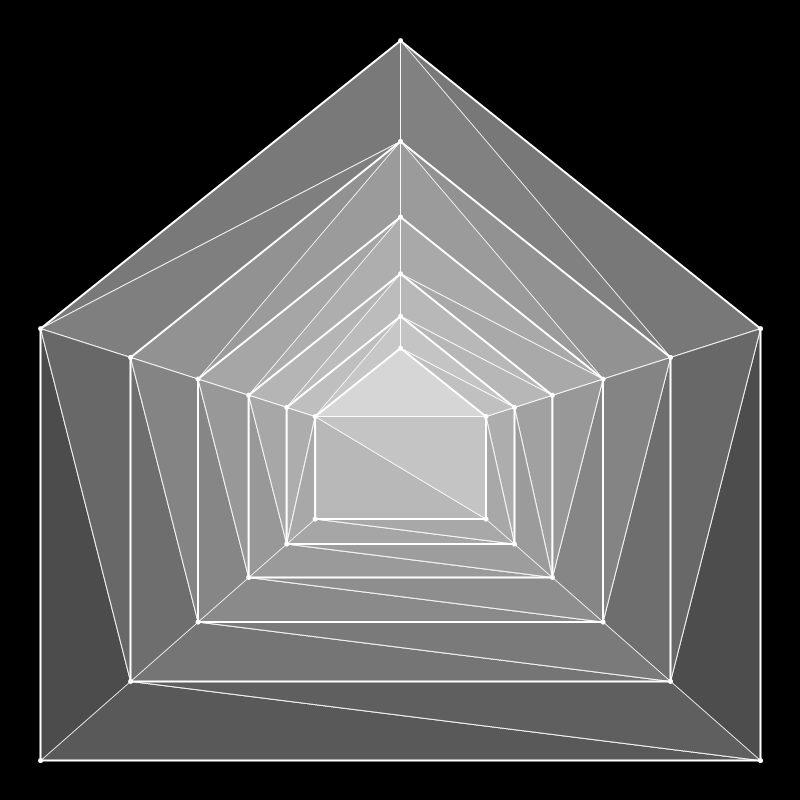
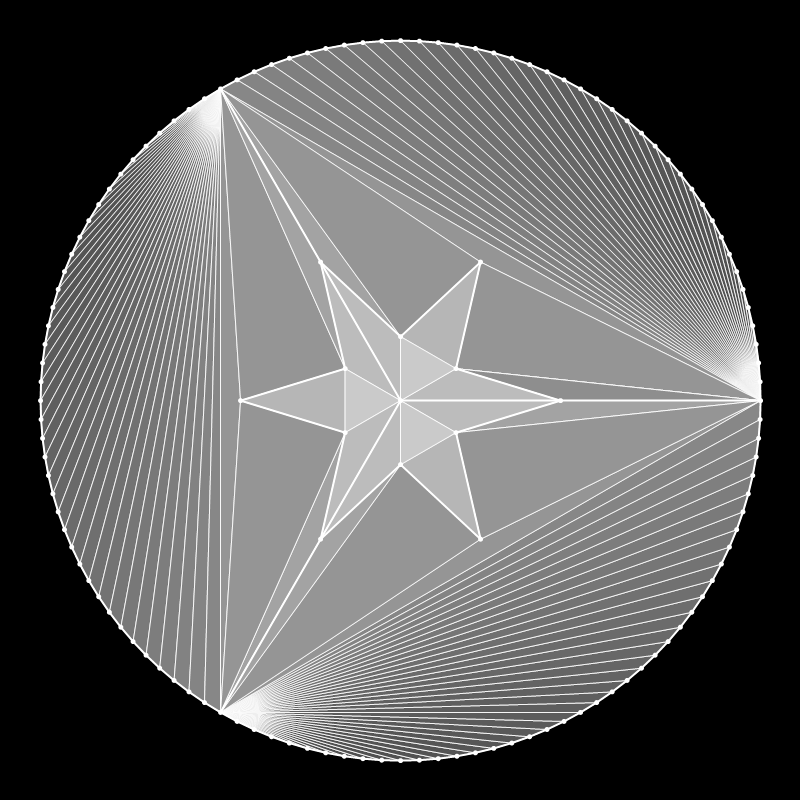
Add star hub TriangleGarden demo render and README note

diff --git a/TriangleGarden.Demo/Program.cs b/TriangleGarden.Demo/Program.cs
@@ -28,67 +28,148 @@ namespace TriangleGarden.Demo
             Console.WriteLine($"Vertices:  {result.Points.Count}");
             Console.WriteLine($"Triangles: {result.Triangles.Count}");
             Console.WriteLine($"Image written to: {imagePath}");
+
+            // Second demo: star ring + center hub
+            var starPoints   = BuildPointsStar();
+            var starSegments = BuildSegmentsStar(starPoints.Count);
+            var starInput    = new TriangleGardenInput(starPoints, starSegments);
+            var starResult   = TriangleGardenTriangulator.Run(in starInput);
+
+            var starImagePath = Path.GetFullPath("triangle_garden_star.png");
+            Render(starResult.Points, starResult.Triangles, starSegments, starImagePath);
+
+            Console.WriteLine($"[Star] Vertices:  {starResult.Points.Count}");
+            Console.WriteLine($"[Star] Triangles: {starResult.Triangles.Count}");
+            Console.WriteLine($"[Star] Image written to: {starImagePath}");
         }
 
         private static List<RealPoint2D> BuildPoints()
         {
-            // Base "house" shape in local coordinates, roughly [0,100] box.
-            // Simple, non-self-intersecting polygon.
-            var basePoly = new List<RealPoint2D>
+            var pts = new List<RealPoint2D>();
+            const double cx = 50.0;
+            const double cy = 50.0;
+
+            // OUTER RING (120-gon)
+            const int outerN = 120;
+            const double outerR = 45.0;
+
+            for (int i = 0; i < outerN; i++)
             {
-                new RealPoint2D(0, 0),    // bottom left
-                new RealPoint2D(100, 0),  // bottom right
-                new RealPoint2D(100, 60), // right wall top
-                new RealPoint2D(50, 100), // roof peak
-                new RealPoint2D(0, 60)    // left wall top
-            };
-
-            double cx = 0, cy = 0;
-            foreach (var p in basePoly)
-            {
-                cx += p.X;
-                cy += p.Y;
-            }
-            cx /= basePoly.Count;
-            cy /= basePoly.Count;
-
-            var points = new List<RealPoint2D>();
-
-            const int    levels     = 6;
-            const double scaleStep  = 0.75;
-
-            for (int level = 0; level < levels; level++)
-            {
-                double s = Math.Pow(scaleStep, level);
-
-                foreach (var p in basePoly)
-                {
-                    double x = cx + (p.X - cx) * s;
-                    double y = cy + (p.Y - cy) * s;
-                    points.Add(new RealPoint2D(x, y));
-                }
+                double ang = 2 * Math.PI * i / outerN;
+                pts.Add(new RealPoint2D(cx + outerR * Math.Cos(ang),
+                                        cy + outerR * Math.Sin(ang)));
             }
 
-            return points;
+            // INNER STAR (12-pt)
+            const int starN = 12;
+            const double r1 = 20.0;
+            const double r2 = 8.0;
+
+            for (int i = 0; i < starN; i++)
+            {
+                double ang = 2 * Math.PI * i / starN;
+                double r = (i % 2 == 0) ? r1 : r2;
+                pts.Add(new RealPoint2D(cx + r * Math.Cos(ang),
+                                        cy + r * Math.Sin(ang)));
+            }
+
+            // CENTER
+            pts.Add(new RealPoint2D(cx, cy));
+
+            return pts;
         }
 
         private static List<(int A, int B)> BuildSegments(int pointCount)
         {
+            var seg = new List<(int, int)>();
+
+            const int outerN = 120;
+            const int starN = 12;
+
+            // Outer ring
+            for (int i = 0; i < outerN; i++)
+                seg.Add((i, (i + 1) % outerN));
+
+            // Star cycle
+            int starStart = outerN;
+            for (int i = 0; i < starN; i++)
+                seg.Add((starStart + i,
+                         starStart + ((i + 1) % starN)));
+
+            // Center connections (no cycle — just rays)
+            int center = outerN + starN;
+
+            seg.Add((center, 0));
+            seg.Add((center, outerN / 3));
+            seg.Add((center, (2 * outerN) / 3));
+
+            return seg;
+        }
+
+        private static List<RealPoint2D> BuildPointsStar()
+        {
+            var points = new List<RealPoint2D>();
+
+            const double cx = 50.0;
+            const double cy = 50.0;
+
+            const int    outerCount = 40;
+            const double outerR     = 47.0;
+
+            for (int i = 0; i < outerCount; i++)
+            {
+                double angle = 2.0 * Math.PI * i / outerCount;
+                double x = cx + outerR * Math.Cos(angle);
+                double y = cy + outerR * Math.Sin(angle);
+                points.Add(new RealPoint2D(x, y));
+            }
+
+            const int    starCount   = 20;
+            const double starROuter  = 25.0;
+            const double starRInner  = 18.0;
+
+            for (int i = 0; i < starCount; i++)
+            {
+                double baseAngle = 2.0 * Math.PI * i / starCount;
+                double r = (i % 2 == 0) ? starROuter : starRInner;
+
+                double x = cx + r * Math.Cos(baseAngle);
+                double y = cy + r * Math.Sin(baseAngle);
+                points.Add(new RealPoint2D(x, y));
+            }
+
+            points.Add(new RealPoint2D(cx, cy));
+
+            return points;
+        }
+
+        private static List<(int A, int B)> BuildSegmentsStar(int pointCount)
+        {
             var segments = new List<(int A, int B)>();
 
-            const int baseVertexCount = 5;  // house polygon vertices
-            int levels = pointCount / baseVertexCount;
+            const int outerCount = 40;
+            const int starCount  = 20;
 
-            for (int level = 0; level < levels; level++)
+            int expectedPoints = outerCount + starCount + 1;
+            if (pointCount != expectedPoints)
             {
-                int first = level * baseVertexCount;
-                int last  = first + baseVertexCount - 1;
+                throw new InvalidOperationException($"Point count mismatch: expected {expectedPoints}, got {pointCount}");
+            }
 
-                for (int i = first; i <= last; i++)
-                {
-                    int j = (i == last) ? first : i + 1;
-                    segments.Add((i, j));
-                }
+            int firstOuter = 0;
+            int lastOuter  = outerCount - 1;
+            for (int i = firstOuter; i <= lastOuter; i++)
+            {
+                int j = (i == lastOuter) ? firstOuter : i + 1;
+                segments.Add((i, j));
+            }
+
+            int starFirst = outerCount;
+            int starLast  = starFirst + starCount - 1;
+            for (int i = starFirst; i <= starLast; i++)
+            {
+                int j = (i == starLast) ? starFirst : i + 1;
+                segments.Add((i, j));
             }
 
             return segments;

diff --git a/README.md b/README.md
@@ -103,9 +103,10 @@ All of this is still work in progress: the fast-path classifiers and PSLG triang
 - Deterministic sweep over constraint edges: for each edge, try adjacent neighbors first, then a fallback scan of all vertices; repeat until no new edges are added.
 - Edge legality: existing constraints are always allowed; new edges must not cross existing segments, and any triangle with an interior point is rejected.
 - Triangles are rebuilt from the final edge graph with the same interior-point guard to avoid swallowing vertices.
-- Demo scene: nested scaled “house” polygons rendered in grayscale on black for a technical look.
+- Demo scenes: nested scaled “house” polygons and a 120-gon + star ring with center hub, both rendered in grayscale on black for a technical look.
 
 ![TriangleGarden nested houses](triangle_garden.png)
+![TriangleGarden star hub](triangle_garden_star.png)
 
 ## Building and Running
 
